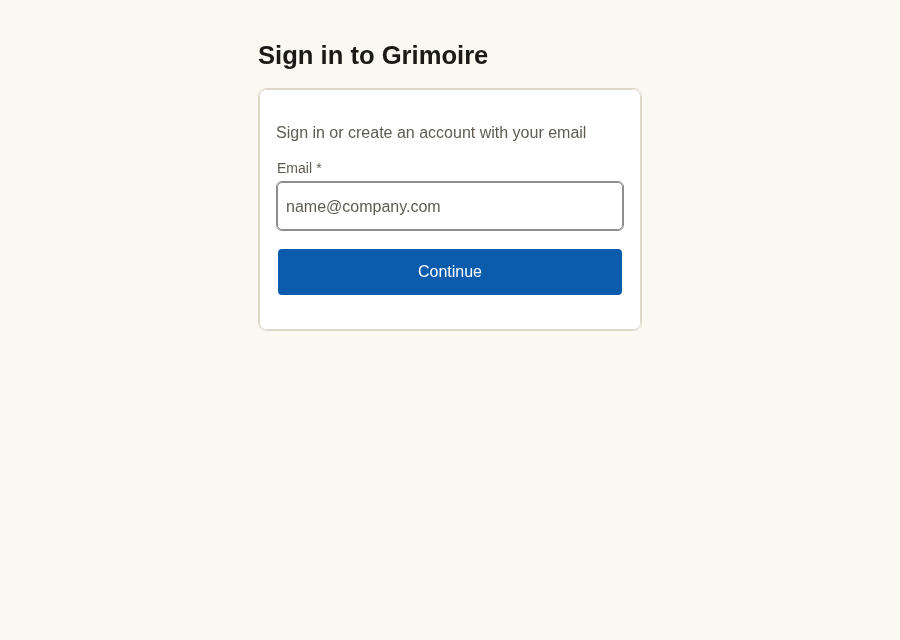
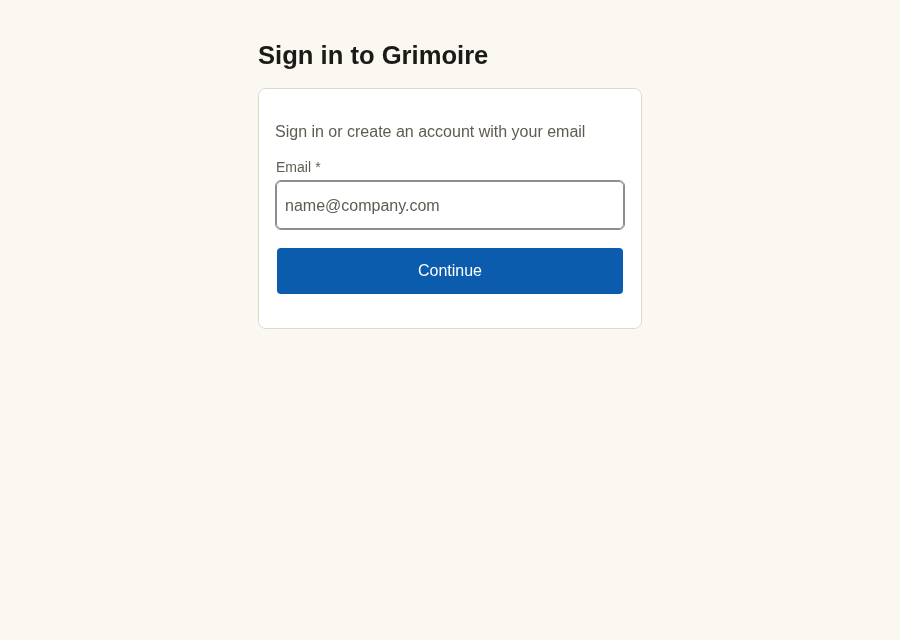
fix(web): the sign-in card is drawn once, by the wrapper of the screen

diff --git a/apps/web/test/auth/descope.test.tsx b/apps/web/test/auth/descope.test.tsx
@@ -110,3 +110,11 @@ describe('descope-signin: the element is told everything before it is part of th
     vi.unstubAllGlobals();
   });
 });
+
+describe('descope-signin: the card', () => {
+  it('is drawn once, by the wrapper of the sign-in screen: the element\'s own holder carries no card class, or the border and the padding would be doubled', async () => {
+    const { default: DescopeSignIn } = await import('../../src/auth/descope-signin');
+    const { container } = render(<DescopeSignIn projectId="P" onSuccess={() => {}} onError={() => {}} />);
+    expect(container.firstElementChild?.className).toBe('');
+  });
+});

diff --git a/apps/web/src/screens/login/login.css b/apps/web/src/screens/login/login.css
@@ -52,7 +52,7 @@
   margin: 0;
 }
 
-/* The provider's flow sits in a card of the same make as the rest of the application's: the flow draws its own padding and takes the card's colour from the project's styles. */
+/* The wrapper of the provider's flow is a card of the same make as the rest of the application's: the flow draws its own padding and takes the card's colour from the project's styles. */
 .login-flow {
   border: 1px solid var(--border);
   border-radius: var(--radius-2);

diff --git a/apps/web/src/auth/descope-signin.tsx b/apps/web/src/auth/descope-signin.tsx
@@ -43,5 +43,5 @@ export default function DescopeSignIn({
       node.remove();
     };
   }, [projectId, baseUrl, flowId, theme, onSuccess, onError]);
-  return createElement('div', { ref: host, className: 'login-flow' });
+  return createElement('div', { ref: host });
 }
